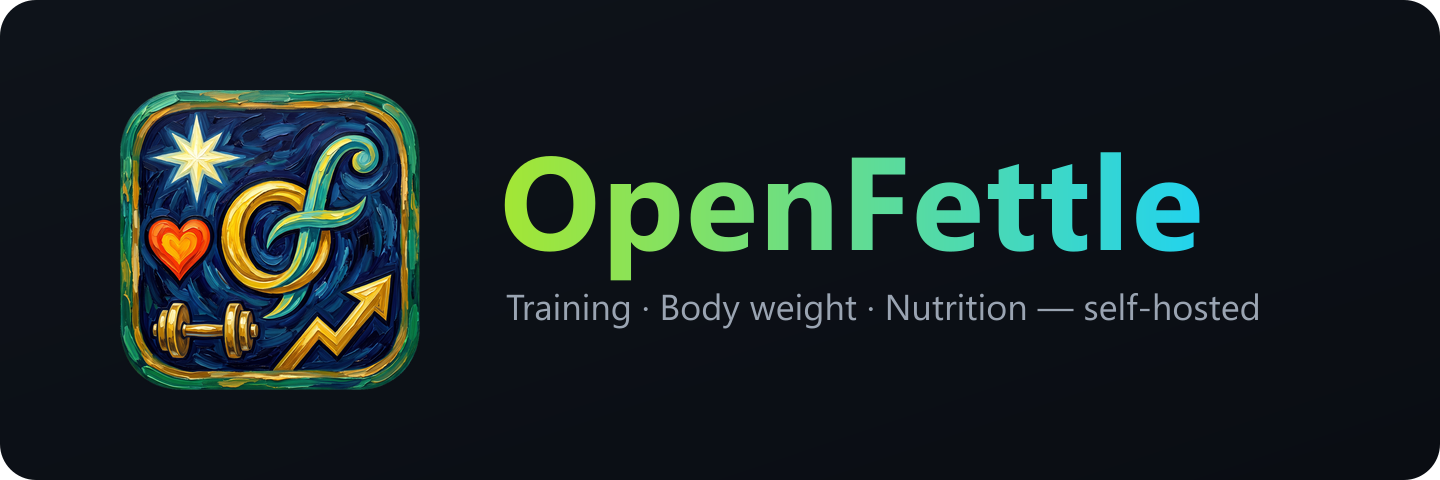
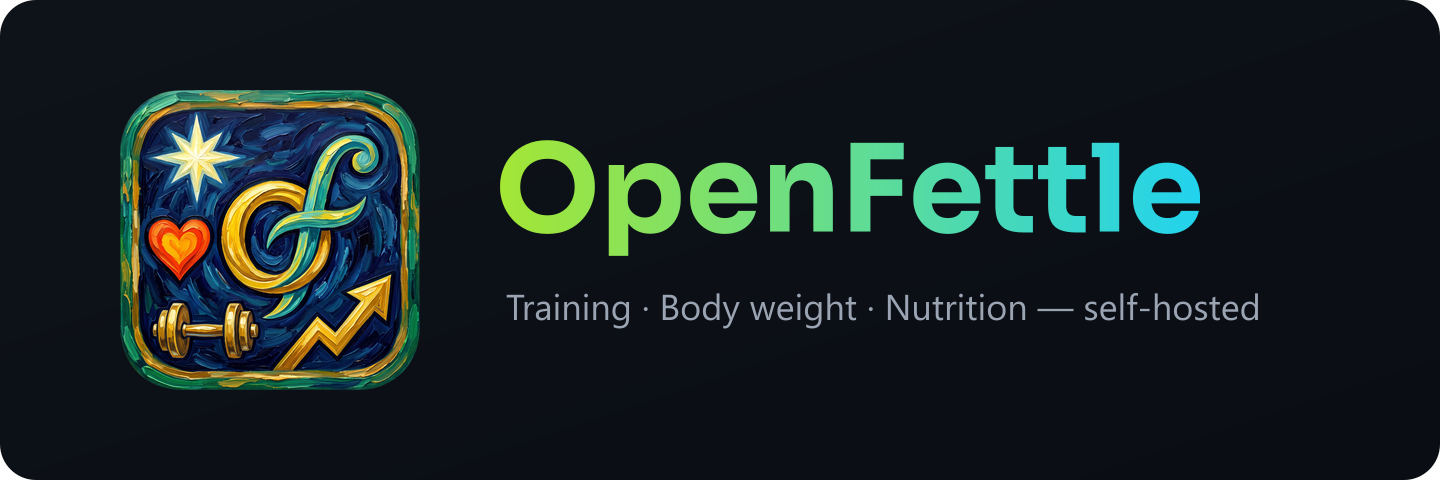
feat(brand): OpenFettle wordmark in Sora Bold
Sora (SIL OFL 1.1) Bold, Latin subset, 7 KB, for the name wherever it
stands as the brand: sign-in heading, Settings footer, README banner
(outlined in assets/wordmark.svg). Running text keeps Poppins.

Changed region(s): [[0.3438, 0.2812, 0.8438, 0.5938]]

diff --git a/frontend/src/views/Login.jsx b/frontend/src/views/Login.jsx
@@ -62,7 +62,7 @@ export default function Login() {
       display: 'block', margin: '0 auto 12px', borderRadius: 22,
       boxShadow: '0 8px 24px -4px color-mix(in srgb, var(--acc) 50%, transparent)'
     }} />
-    <h1 style={{ fontSize: 32, fontWeight: 800, letterSpacing: '.02em', margin: '4px 0 4px' }}>OpenFettle</h1>
+    <h1 className="wordmark" style={{ fontSize: 32, margin: '4px 0 4px' }}>OpenFettle</h1>
     <div style={{ display: 'inline-flex', alignItems: 'center', gap: 6, margin: '0 auto 12px', padding: '3px 12px', borderRadius: 999, background: 'var(--acc-soft)', color: 'var(--acc-ink)', fontSize: 11, fontWeight: 600, letterSpacing: '.05em' }}>
       FITNESS & NUTRITION
     </div>

diff --git a/frontend/src/views/Settings.jsx b/frontend/src/views/Settings.jsx
@@ -230,7 +230,7 @@ export default function Settings() {
     </Section>}
 
     <div className="dim small" style={{ textAlign: 'center', marginTop: 4, lineHeight: 1.6 }}>
-      OpenFettle {__APP_VERSION__} · {t('free & open source (AGPL v3)')}<br />
+      <span className="wordmark">OpenFettle</span> {__APP_VERSION__} · {t('free & open source (AGPL v3)')}<br />
       <a href="https://github.com/rupal2k/openfettle" target="_blank" rel="noopener" style={{ textDecoration: 'underline' }}>source code</a> · exercise data: hasaneyldrm/exercises-dataset (CC)
     </div>
   </div>

diff --git a/frontend/src/index.css b/frontend/src/index.css
@@ -1155,3 +1155,6 @@ body.resting #startfab{bottom:calc(240px + var(--sab))}
 :root[data-theme="light"] .lab-band.mid{color:var(--lab-warn-ink)}
 :root[data-theme="light"] .lab-band.high,:root[data-theme="light"] .lab-st.high{color:var(--lab-bad-ink)}
 :root[data-theme="light"] .lab-st.low{color:var(--lab-warn-ink)}
+
+/* The name OpenFettle, wherever it stands as the brand: always Sora Bold */
+.wordmark { font-family: 'Sora', var(--font, sans-serif); font-weight: 700; letter-spacing: 0; }

diff --git a/frontend/index.html b/frontend/index.html
@@ -14,6 +14,7 @@
 <meta name="apple-mobile-web-app-status-bar-style" content="black-translucent">
 <meta name="apple-mobile-web-app-title" content="OpenFettle">
 <link href="fonts/poppins.css" rel="stylesheet">
+<link href="fonts/sora.css" rel="stylesheet">
 <link rel="manifest" href="manifest.json">
 <link rel="apple-touch-icon" href="icon-180.png">
 <link rel="icon" type="image/png" sizes="64x64" href="favicon.png">

diff --git a/frontend/public/fonts/sora.css b/frontend/public/fonts/sora.css
@@ -1,0 +1,8 @@
+/* Sora Bold, Latin only, for the OpenFettle wordmark (SIL Open Font License 1.1, see OFL-Sora.txt). */
+@font-face {
+  font-family: 'Sora';
+  font-style: normal;
+  font-weight: 700;
+  font-display: swap;
+  src: url(sora-700-latin.woff2) format('woff2');
+}

diff --git a/NOTICE.md b/NOTICE.md
@@ -100,9 +100,14 @@ the **Apache License 2.0**, with the English model from
 WebAssembly core and model are shipped inside the app under `ocr/` unmodified. PDF text and page
 rendering use Mozilla's [**pdf.js**](https://github.com/mozilla/pdf.js) (Apache License 2.0).
 
-## Font (Poppins)
+## Fonts (Poppins, Sora)
 
 The interface font is [**Poppins**](https://github.com/itfoundry/Poppins) by the Poppins Project
 Authors, under the **SIL Open Font License 1.1** (full text in `frontend/public/fonts/OFL.txt`). The
 Latin, Latin Extended and Devanagari subsets from Google Fonts are shipped unmodified in
 `frontend/public/fonts/`, so the app never requests fonts from Google.
+
+The OpenFettle wordmark uses [**Sora**](https://github.com/sora-xor/sora-font) Bold by the Sora Project
+Authors, under the **SIL Open Font License 1.1** (full text in `frontend/public/fonts/OFL-Sora.txt`).
+A Latin-only subset is shipped as `frontend/public/fonts/sora-700-latin.woff2`, and the outlined
+wordmark in `assets/wordmark.svg` is drawn from it.
